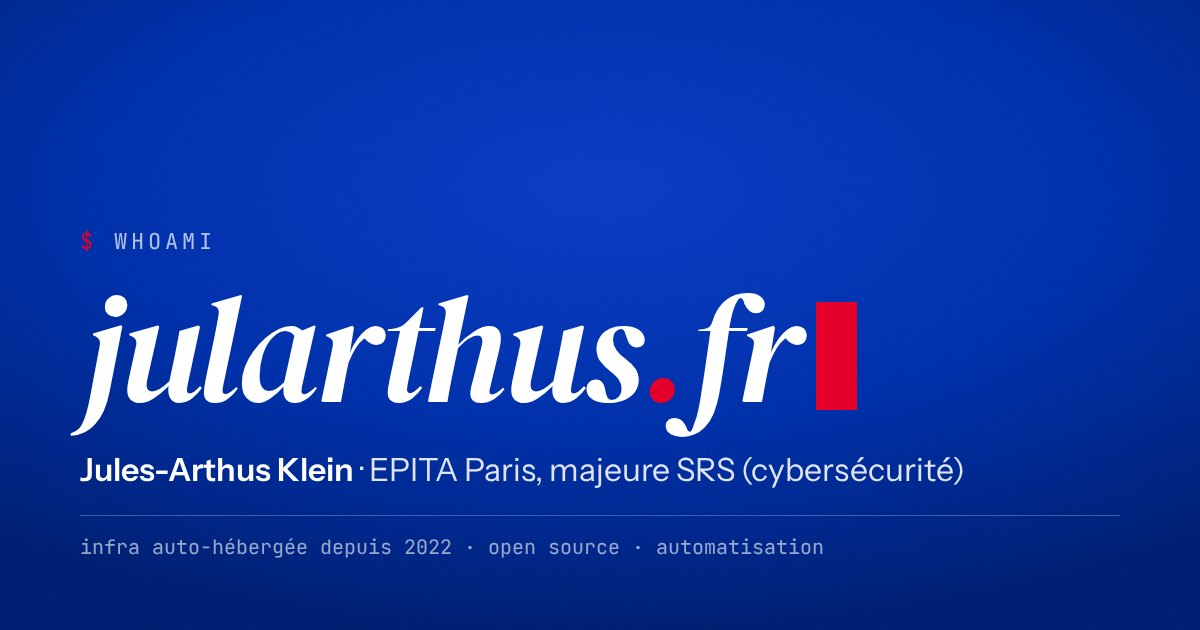
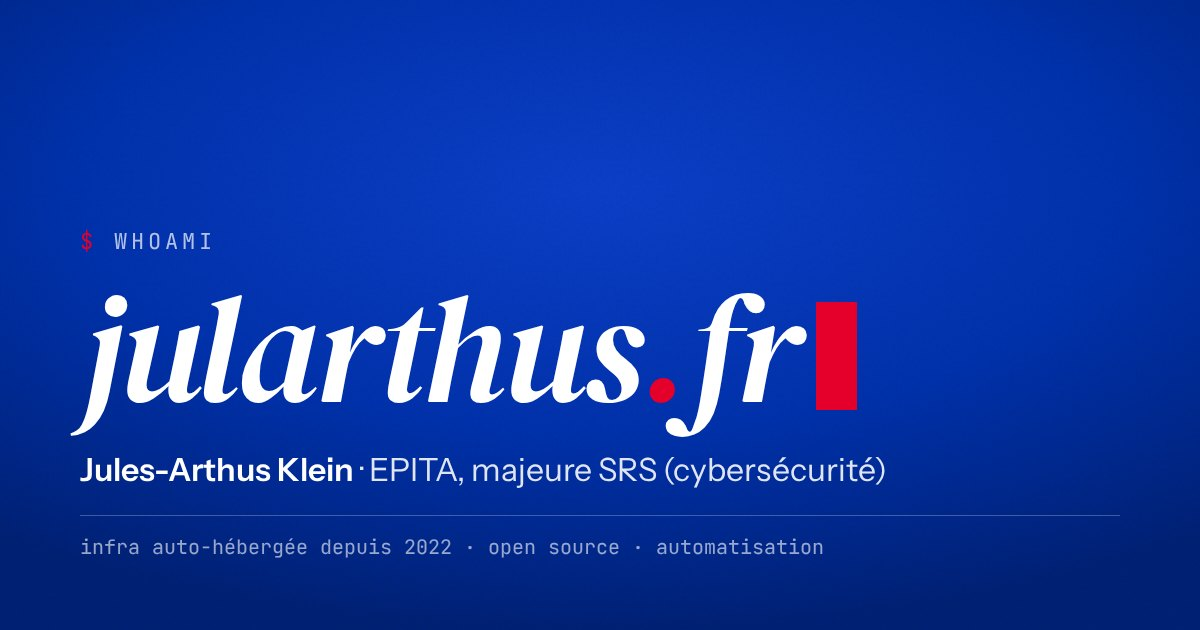
copy: humanized texts
- hero: "élève ingénieur à l'EPITA", "Construire, automatiser, sécuriser.
  Et s'amuser !" (also in the meta, link preview and terminal whoami),
  9 programming languages, 700+ students taught as an assistant
- about: new introduction (Nancy, then Strasbourg, Prague and Paris at
  EPITA, SRS spelled out) and a warmer closing paragraph; ID card: EPITA
- project card title: CheatersTestsuite
- timeline: new Prague text, "j'ai enseigné" for ACDC
- ACDC / YAKA: "3e année" / "4e année" without "sur 5"
- share image re-rendered with "EPITA, majeure SRS"
English versions updated alongside.

Changed region(s): [[0.37, 0.7238, 0.8017, 0.7841]]

diff --git a/public/index.html b/public/index.html
@@ -8,7 +8,7 @@
     <title>Jules-Arthus Klein · Portfolio · jularthus.fr</title>
     <meta
       name="description"
-      content="Jules-Arthus Klein, élève ingénieur à l'EPITA Paris, majeure SRS (cybersécurité). Infra auto-hébergée depuis 2022, projets open source, automatisation."
+      content="Jules-Arthus Klein, élève ingénieur à l'EPITA, majeure SRS (cybersécurité). Infra auto-hébergée depuis 2022, projets open source, automatisation."
     />
     <link rel="canonical" href="https://jularthus.fr/" />
 
@@ -18,7 +18,7 @@
     <meta property="og:title" content="Jules-Arthus Klein · jularthus.fr" />
     <meta
       property="og:description"
-      content="Élève ingénieur EPITA, majeure SRS. Je construis, j'automatise, je sécurise."
+      content="Élève ingénieur EPITA, majeure SRS. Construire, automatiser, sécuriser. Et s'amuser !"
     />
     <meta property="og:image" content="https://jularthus.fr/og.jpg" />
     <meta property="og:image:width" content="1200" />
@@ -90,10 +90,10 @@
           <span id="typed" aria-hidden="true">jularthus<span class="dot">.</span>fr</span><span class="caret" aria-hidden="true"></span>
         </h1>
         <p class="hero-caption" data-i18n-html="hero.caption">
-          <span class="hero-name">Jules-Arthus Klein</span>, élève ingénieur à l'EPITA Paris, majeure SRS (cybersécurité).
+          <span class="hero-name">Jules-Arthus Klein</span>, élève ingénieur à l'EPITA, majeure SRS (cybersécurité).
         </p>
         <p class="hero-tagline" data-i18n="hero.tagline">
-          Je construis, j'automatise, je sécurise.
+          Construire, automatiser, sécuriser. Et s'amuser !
         </p>
         <div class="hero-cta">
           <a class="btn btn-paper magnetic" href="#projets"><span data-i18n="hero.cta1">Voir les projets</span><span class="arr" aria-hidden="true">↓</span></a>
@@ -110,11 +110,11 @@
             <dd data-i18n="proof.selfhosted">auto-hébergé, depuis 2022</dd>
           </div>
           <div class="proof-item">
-            <dt><span class="count" data-from="0" data-to="7">7</span></dt>
+            <dt><span class="count" data-from="0" data-to="9">9</span></dt>
             <dd data-i18n="proof.langs">langages de programmation, et d'autres à venir</dd>
           </div>
           <div class="proof-item">
-            <dt><span class="count" data-from="0" data-to="30">30</span></dt>
+            <dt><span class="count" data-from="0" data-to="700">700</span><small>+</small></dt>
             <dd data-i18n="proof.students">étudiants encadrés à l'EPITA en tant qu'assistant</dd>
           </div>
           <div class="proof-item">
@@ -137,11 +137,11 @@
           <div class="about">
             <div class="about-text io" style="--d: 0.08s">
               <p data-i18n-html="about.p1">
-                Je m'appelle <strong>Jules-Arthus «&nbsp;JA&nbsp;» Klein</strong>. Je viens de
-                <strong>Nancy</strong>, je suis passé par <strong>Strasbourg</strong>,
-                <strong>Prague</strong> et le <strong>Luxembourg</strong>, et je poursuis
-                aujourd'hui mon cycle ingénieur à l'<strong>EPITA Paris</strong>, majeure
-                <strong>SRS</strong>.
+                Je suis <strong>Jules-Arthus «&nbsp;JA&nbsp;» Klein</strong>. Je viens de
+                <strong>Nancy</strong>, et j'ai fait mes études à <strong>Strasbourg</strong>,
+                à <strong>Prague</strong> et à <strong>Paris</strong> à l'<strong>EPITA</strong>,
+                où je poursuis aujourd'hui mon cycle ingénieur au sein de la majeure
+                <strong>SRS</strong> (Systèmes, Réseaux et Sécurité).
               </p>
               <p data-i18n-html="about.p2">
                 Ce qui me fait lever le matin : la <i>cybersécurité</i>, d'abord. Et cette
@@ -156,10 +156,11 @@
                 quand personne n'en a besoin.
               </p>
               <p data-i18n-html="about.p4">
-                On me dit sympathique et ouvert. La partie du portrait que je défends
-                vraiment, c'est l'autre : sérieux, efficace, <strong>fiable</strong>. Le
-                genre de personne à qui on confie les clés, et qui les rend avec un double
-                étiqueté.
+                On me dit sympathique et ouvert (mais aussi très drôle !). Mais la partie de
+                mon portrait que je défends vraiment, c'est l'autre : sérieux, efficace,
+                <strong>fiable</strong>. Le genre de personne à qui on confie les clés, et qui
+                les rend avec un double étiqueté. En fin de compte, je suis rigoureux, enjoué
+                et même modeste !
               </p>
             </div>
             <div class="idcard io" style="--d: 0.16s">
@@ -184,7 +185,7 @@
                 </div>
                 <div class="idcard-row">
                   <dt data-i18n="id.school">École</dt>
-                  <dd data-i18n-html="id.school.v">EPITA Paris<small>majeure SRS · cybersécurité</small></dd>
+                  <dd data-i18n-html="id.school.v">EPITA<small>majeure SRS · cybersécurité</small></dd>
                 </div>
                 <div class="idcard-row">
                   <dt data-i18n="id.xp">Expérience</dt>
@@ -309,7 +310,7 @@
                 </div>
                 <div class="pcard-body">
                   <div class="pcard-path">~/projets/testsuite</div>
-                  <h3 class="pcard-name">Testsuite</h3>
+                  <h3 class="pcard-name">CheatersTestsuite</h3>
                   <p class="pcard-pitch" data-i18n="p.testsuite.pitch">Transforme n'importe quelle testsuite Bash en trace XML lisible par l'intranet de l'EPITA : ce qui passe, ce qui casse, d'un coup d'œil.</p>
                   <p class="pcard-why" data-i18n-html="p.testsuite.why"><b>L'anecdote :</b> si propre et si bien documenté que les assistants ont cru à de la triche. Une soutenance d'explication plus tard, ils en sont restés bouche bée.</p>
                   <ul class="pcard-tags"><li>Bash</li><li>XML</li><li>Tests</li></ul>
@@ -438,9 +439,10 @@
               <div class="tl-period" data-i18n="tl.3.when">Prague · 1 semestre</div>
               <h3 class="tl-title">Erasmus · Unicorn University</h3>
               <p class="tl-desc" data-i18n-html="tl.3.desc">
-                Cours en anglais, autre culture, mêmes bugs. C'est là que mon
-                <strong>serveur</strong> a vraiment pris son envol : beaucoup de nouvelles
-                fonctionnalités, et un projet devenu nettement plus sérieux.
+                Cours en anglais, autre culture, mêmes bugs. Une expérience riche qui m'a
+                montré une autre façon de vivre et de voir le monde. C'est ici que j'ai
+                vraiment commencé à travailler mon <strong>infrastructure serveur</strong>, et
+                que j'ai trouvé la motivation de me lancer dans de plus grands projets.
               </p>
             </div>
             <div class="tl-item io">
@@ -448,7 +450,7 @@
               <h3 class="tl-title"><span data-i18n="tl.4.title">EPITA · ING1</span></h3>
               <p class="tl-desc" data-i18n-html="tl.4.desc">
                 La fameuse ING1, l'année la plus dense du cursus : 42sh, Tiger, et beaucoup de
-                café. Bilan : <strong>zéro rattrapage</strong>. En parallèle, j'enseigne la
+                café. Bilan : <strong>zéro rattrapage</strong>. En parallèle, j'ai enseigné la
                 programmation comme assistant ACDC.
               </p>
             </div>
@@ -488,7 +490,7 @@
                   <img src="assets/img/acdc.svg" width="240" height="240" loading="lazy" decoding="async" alt="Logo ACDC" />
                 </span>
               </div>
-              <p class="duo-when" data-i18n="duo.acdc.when">ING1 · 3e année sur 5</p>
+              <p class="duo-when" data-i18n="duo.acdc.when">ING1 · 3e année</p>
               <h4 class="duo-name" id="acdc-name">ACDC</h4>
               <p class="duo-full" data-i18n="duo.acdc.full">Assistant Code et Développement C</p>
               <p class="duo-intro" data-i18n-html="duo.acdc.intro">
@@ -520,7 +522,7 @@
                 </span>
                 <span class="duo-seal" data-i18n="duo.yaka.seal">Thème pas encore dévoilé</span>
               </div>
-              <p class="duo-when" data-i18n="duo.yaka.when">ING2 · 4e année sur 5 · aujourd'hui</p>
+              <p class="duo-when" data-i18n="duo.yaka.when">ING2 · 4e année · aujourd'hui</p>
               <h4 class="duo-name" id="yaka-name" data-decrypt><span data-i18n="duo.yaka.name">YAKA</span></h4>
               <p class="duo-full">Yet Another Kind of Assistant</p>
               <p class="duo-intro" data-i18n-html="duo.yaka.intro">
@@ -693,7 +695,7 @@
     <script src="assets/vendor/ScrollTrigger.min.js" defer></script>
     <script src="assets/vendor/SplitText.min.js" defer></script>
     <script src="assets/vendor/lenis.min.js" defer></script>
-    <script src="assets/js/data.js?v=fc889e72" defer></script>
+    <script src="assets/js/data.js?v=65f16095" defer></script>
     <script src="assets/js/pigment.js?v=0d9db74f" defer></script>
     <script src="assets/js/site.js?v=bd4df231" defer></script>
   </body>

diff --git a/public/assets/js/data.js b/public/assets/js/data.js
@@ -15,11 +15,11 @@ window.SITE_DATA = (function () {
   var META = {
     fr: {
       title: "Jules-Arthus Klein · Portfolio · jularthus.fr",
-      desc: "Jules-Arthus Klein, élève ingénieur à l'EPITA Paris, majeure SRS (cybersécurité). Infra auto-hébergée depuis 2022, projets open source, automatisation.",
+      desc: "Jules-Arthus Klein, élève ingénieur à l'EPITA, majeure SRS (cybersécurité). Infra auto-hébergée depuis 2022, projets open source, automatisation.",
     },
     en: {
       title: "Jules-Arthus Klein · Portfolio · jularthus.fr",
-      desc: "Jules-Arthus Klein, engineering student at EPITA Paris, majoring in security (SRS). Self-hosted infrastructure since 2022, open-source projects, automation.",
+      desc: "Jules-Arthus Klein, engineering student at EPITA, majoring in security (SRS). Self-hosted infrastructure since 2022, open-source projects, automation.",
     },
   };
 
@@ -35,8 +35,8 @@ window.SITE_DATA = (function () {
     "nav.palette": "Open the command palette",
     "nav.lang": "Language",
 
-    "hero.caption": '<span class="hero-name">Jules-Arthus Klein</span>, engineering student at EPITA Paris, majoring in Systems, Networks &amp; Security.',
-    "hero.tagline": "I build, I automate, I secure.",
+    "hero.caption": '<span class="hero-name">Jules-Arthus Klein</span>, engineering student at EPITA, majoring in Systems, Networks &amp; Security.',
+    "hero.tagline": "Build, automate, secure. And have fun!",
     "hero.cta1": "See the projects",
     "hero.cta2": "Get in touch",
     "hero.scroll": "Scroll down",
@@ -49,15 +49,15 @@ window.SITE_DATA = (function () {
 
     "about.eyebrow": "01 · About",
     "about.title": "Who I am",
-    "about.p1": "I'm <strong>Jules-Arthus «&nbsp;JA&nbsp;» Klein</strong>. I'm from <strong>Nancy</strong>, I went through <strong>Strasbourg</strong>, <strong>Prague</strong> and <strong>Luxembourg</strong>, and I'm now completing my engineering degree at <strong>EPITA Paris</strong>, majoring in <strong>SRS</strong>.",
+    "about.p1": "I'm <strong>Jules-Arthus «&nbsp;JA&nbsp;» Klein</strong>. I'm from <strong>Nancy</strong>, and I studied in <strong>Strasbourg</strong>, <strong>Prague</strong> and <strong>Paris</strong> at <strong>EPITA</strong>, where I'm now completing my engineering degree in the <strong>SRS</strong> major (Systems, Networks and Security).",
     "about.p2": "What gets me up in the morning: <i>cybersecurity</i>, first. And a habit of <strong>automating</strong> everything that can be: if a task comes back twice, it ends up as a script. On the side, I play the <strong>Pokémon battle simulator</strong>, with the same reflexes as in security: read the opponent, anticipate, leave nothing to chance.",
     "about.p3": "My current playground is <strong>home automation</strong>: gate security, and home-made sensors that switch off lights and heating when nobody needs them.",
-    "about.p4": "People call me friendly and open. The part of the portrait I really stand for is the other one: serious, efficient, <strong>reliable</strong>. The kind of person you hand the keys to, and who gives them back with a labelled spare.",
+    "about.p4": "People call me friendly and open (and very funny, too!). But the part of my portrait I really stand for is the other one: serious, efficient, <strong>reliable</strong>. The kind of person you hand the keys to, and who gives them back with a labelled spare. All in all, I'm rigorous, cheerful, and even modest!",
     "about.latios": "Latios, on the team since forever.",
 
     "id.base": "Based in",
     "id.school": "School",
-    "id.school.v": "EPITA Paris<small>SRS major · cybersecurity</small>",
+    "id.school.v": "EPITA<small>SRS major · cybersecurity</small>",
     "id.xp": "Experience",
     "id.xp.v": "Internship at INCERT GIE<small>Luxembourg · AI project</small>",
     "id.obs": "Obsessions",
@@ -135,7 +135,7 @@ window.SITE_DATA = (function () {
     "tl.2.title": "EPITA · integrated prep",
     "tl.2.desc": "Maths, projects, short nights, and the certainty of being exactly where I belonged.",
     "tl.3.when": "Prague · 1 semester",
-    "tl.3.desc": "Classes in English, a new culture, the same bugs. This is where my <strong>server</strong> really took off: lots of new features, and a project that became much more serious.",
+    "tl.3.desc": "Classes in English, a new culture, the same bugs. A rich experience that showed me another way of living and seeing the world. This is where I really started working on my <strong>server infrastructure</strong>, and found the motivation to take on bigger projects.",
     "tl.4.when": "Strasbourg · 1 year",
     "tl.4.title": "EPITA · ING1",
     "tl.4.desc": "The infamous ING1, the densest year of the curriculum: 42sh, Tiger, and a lot of coffee. Result: <strong>zero resits</strong>. At the same time, I taught programming as an ACDC assistant.",
@@ -153,7 +153,7 @@ window.SITE_DATA = (function () {
     "relay.kicker": "The relay",
     "relay.cap": "I was taught, now I pass it on: in ING1 to prep students, <span class=\"relay-c-acdc\">ACDC</span>; in ING2 to ING1 students, <span class=\"relay-c-yaka\">YAKA</span>.",
     "relay.prep": "Prep",
-    "duo.acdc.when": "ING1 · year 3 of 5",
+    "duo.acdc.when": "ING1 · year 3",
     "duo.acdc.full": "C Programming and Development Assistant",
     "duo.acdc.intro": "I moved to the other side of the classroom: I teach <mark class=\"hl\">programming classes</mark> (Python, C) to prep students in <strong>year 1</strong> of the curriculum.",
     "duo.acdc.stat": "prep students taught, as a pair",
@@ -164,7 +164,7 @@ window.SITE_DATA = (function () {
     "duo.acdc.5": "Goal: <mark class=\"hl\">every student</mark> understands the week's concepts, not just the average",
     "duo.acdc.6": "Interviewed by prep students for their methodology class",
     "duo.yaka.seal": "Theme not revealed yet",
-    "duo.yaka.when": "ING2 · year 4 of 5 · today",
+    "duo.yaka.when": "ING2 · year 4 · today",
     "duo.yaka.name": "YAKA",
     "duo.yaka.intro": "I am now a YAKA: I in turn supervise <mark class=\"hl\">third-year students</mark> (ING1).",
     "duo.yaka.stat": "ING1 students supervised, across EPITA's 5 campuses",
@@ -515,7 +515,7 @@ window.SITE_DATA = (function () {
           ["lang en", "switch to English"],
           ["clear", "effacer l'écran"],
         ],
-        whoami: "<b>Jules-Arthus Klein</b>, élève ingénieur à l'EPITA Paris, majeure SRS.\nJe construis, j'automatise, je sécurise.",
+        whoami: "<b>Jules-Arthus Klein</b>, élève ingénieur à l'EPITA, majeure SRS.\nConstruire, automatiser, sécuriser. Et s'amuser !",
         uptime: "en service <b>depuis 2022</b> · 24 h/24",
         issue: "Ubuntu 24.04 LTS · Razer Blade 15 (2020)",
         ps: "<b>18 conteneurs</b> · running",
@@ -586,7 +586,7 @@ window.SITE_DATA = (function () {
           ["lang fr", "passer en français"],
           ["clear", "clear the screen"],
         ],
-        whoami: "<b>Jules-Arthus Klein</b>, engineering student at EPITA Paris, SRS major.\nI build, I automate, I secure.",
+        whoami: "<b>Jules-Arthus Klein</b>, engineering student at EPITA, SRS major.\nBuild, automate, secure. And have fun!",
         uptime: "running <b>since 2022</b> · 24/7",
         issue: "Ubuntu 24.04 LTS · Razer Blade 15 (2020)",
         ps: "<b>18 containers</b> · running",

diff --git a/tools/render/og.html b/tools/render/og.html
@@ -13,5 +13,5 @@ p{font-size:32px;margin:26px 0 0;color:rgba(255,255,255,.88)}p b{color:#fff;font
 .m{font-family:Mono;font-size:20px;color:rgba(255,255,255,.6);margin-top:26px;border-top:1px solid rgba(255,255,255,.25);padding-top:18px}
 </style></head><body><div class="g"></div><div class="in">
 <div class="cmd"><b>$</b> whoami</div><h1>jularthus<span style="color:#e4002b">.</span>fr<span class="c"></span></h1>
-<p><b>Jules-Arthus Klein</b> · EPITA Paris, majeure SRS (cybersécurité)</p>
+<p><b>Jules-Arthus Klein</b> · EPITA, majeure SRS (cybersécurité)</p>
 <div class="m">infra auto-hébergée depuis 2022 · open source · automatisation</div></div></body></html>
